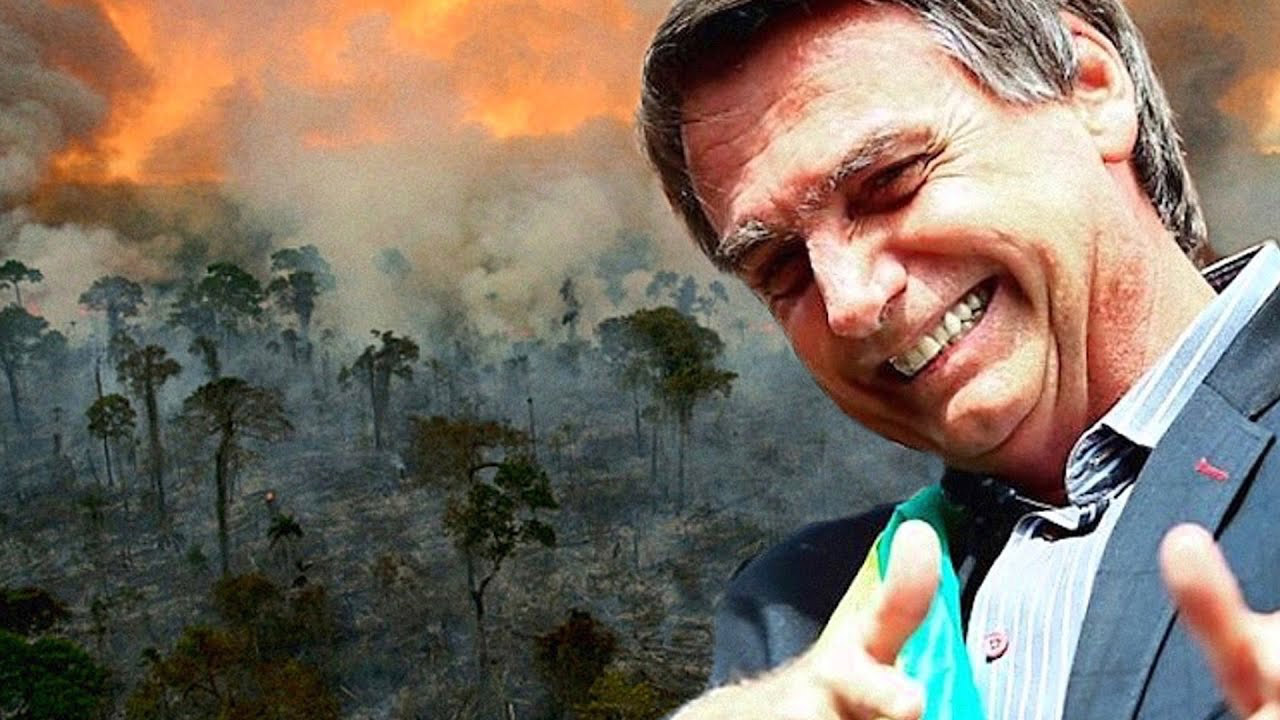
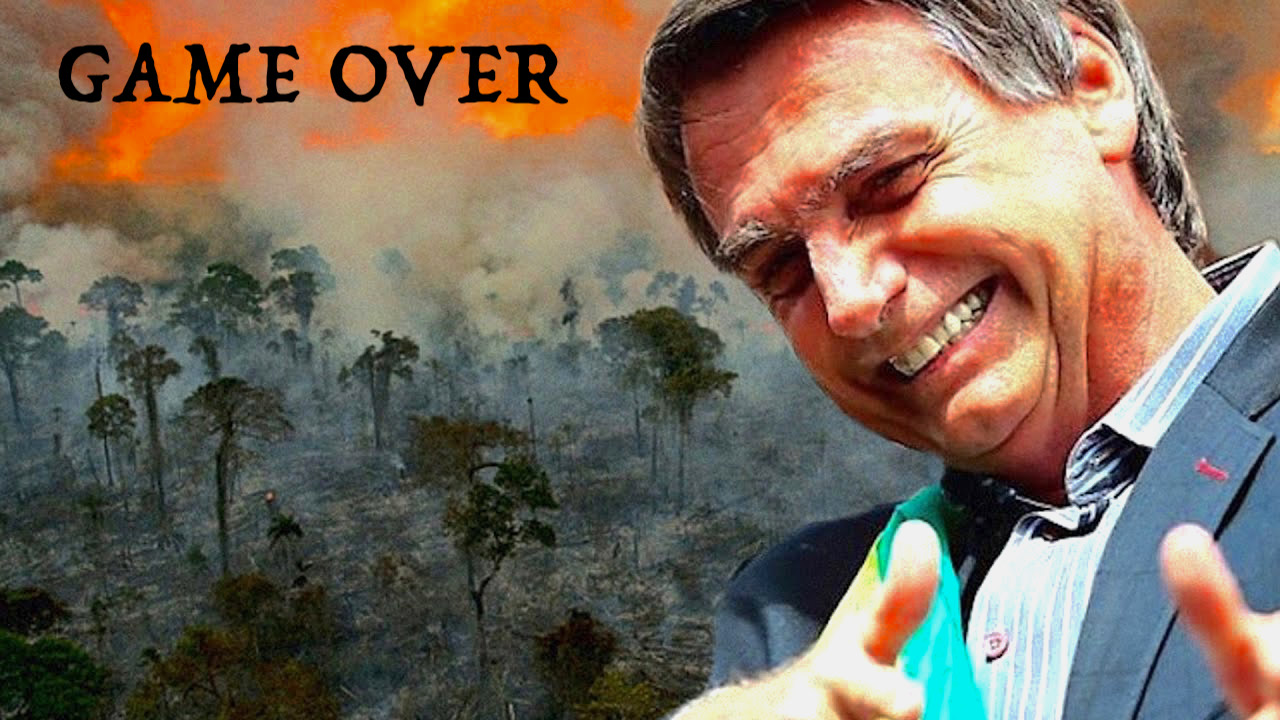
version 4.1

diff --git a/src/game.js b/src/game.js
@@ -15,9 +15,9 @@ class Game {
       // { src: loadImage("assets/background/plx-5.png"), x: 0, speed: 4 },
     ];
     this.playerImg = loadImage("assets/player/bird.png");
-    this.coinImg = loadImage("assets/coins/BlueFish4.png");
+    this.coinImg = loadImage("assets/coins/flame.png");
     this.startImg = loadImage("assets/startimage/startimage.jpg"); 
-    this.gameoverImg = loadImage("assets/gameover/gameoverfinal.jpg"); 
+    this.gameoverImg = loadImage("assets/gameover/bozofire02.png"); 
   }  
 
   setup() {
